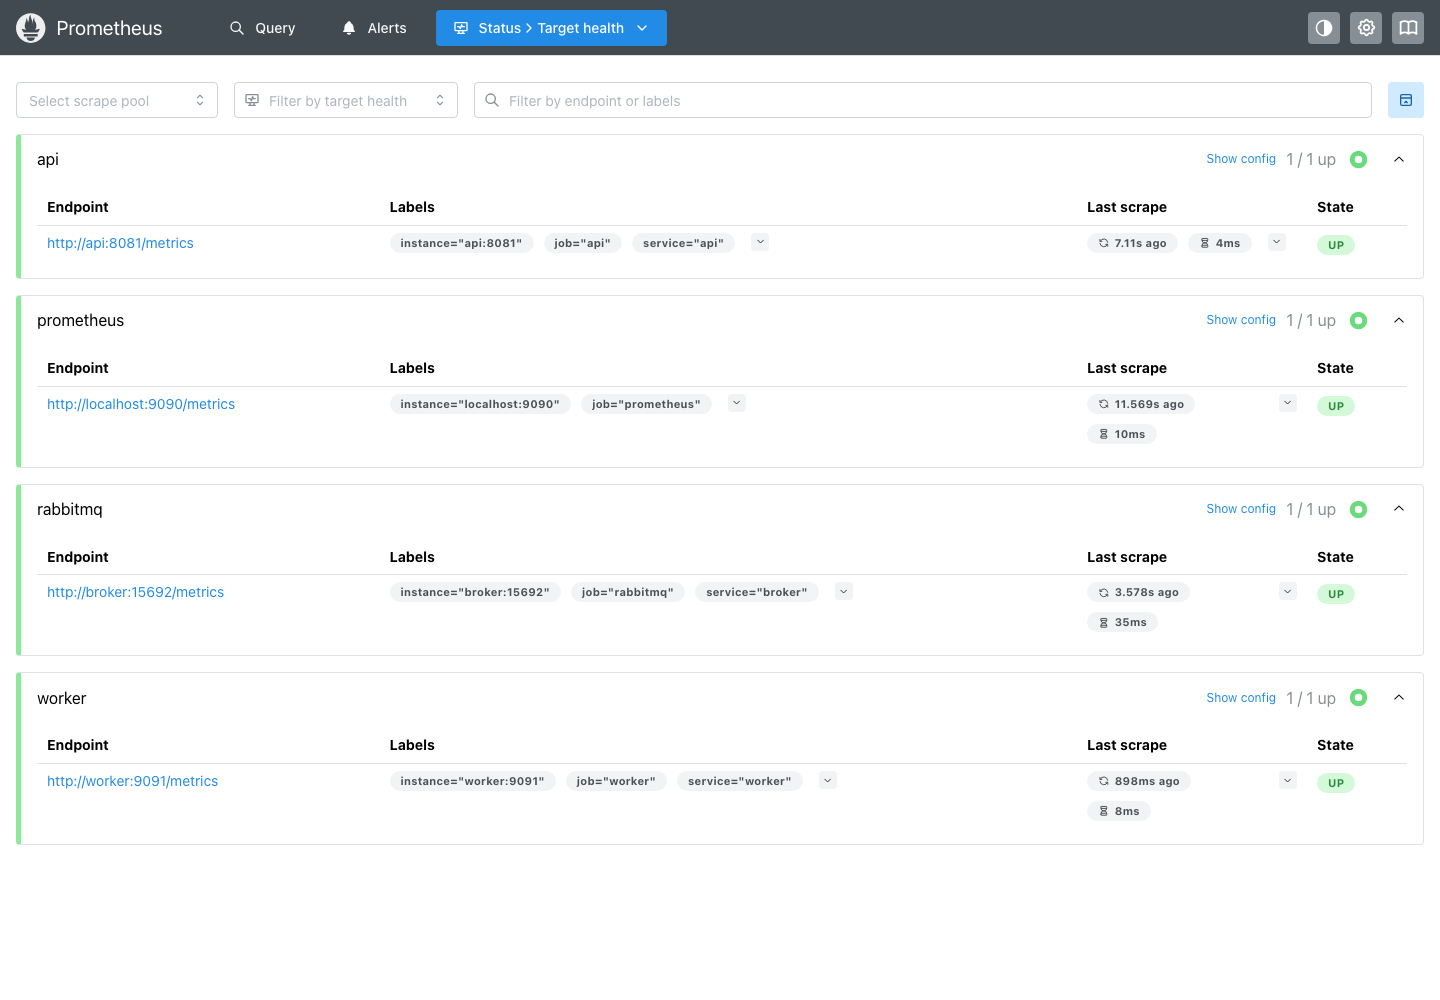
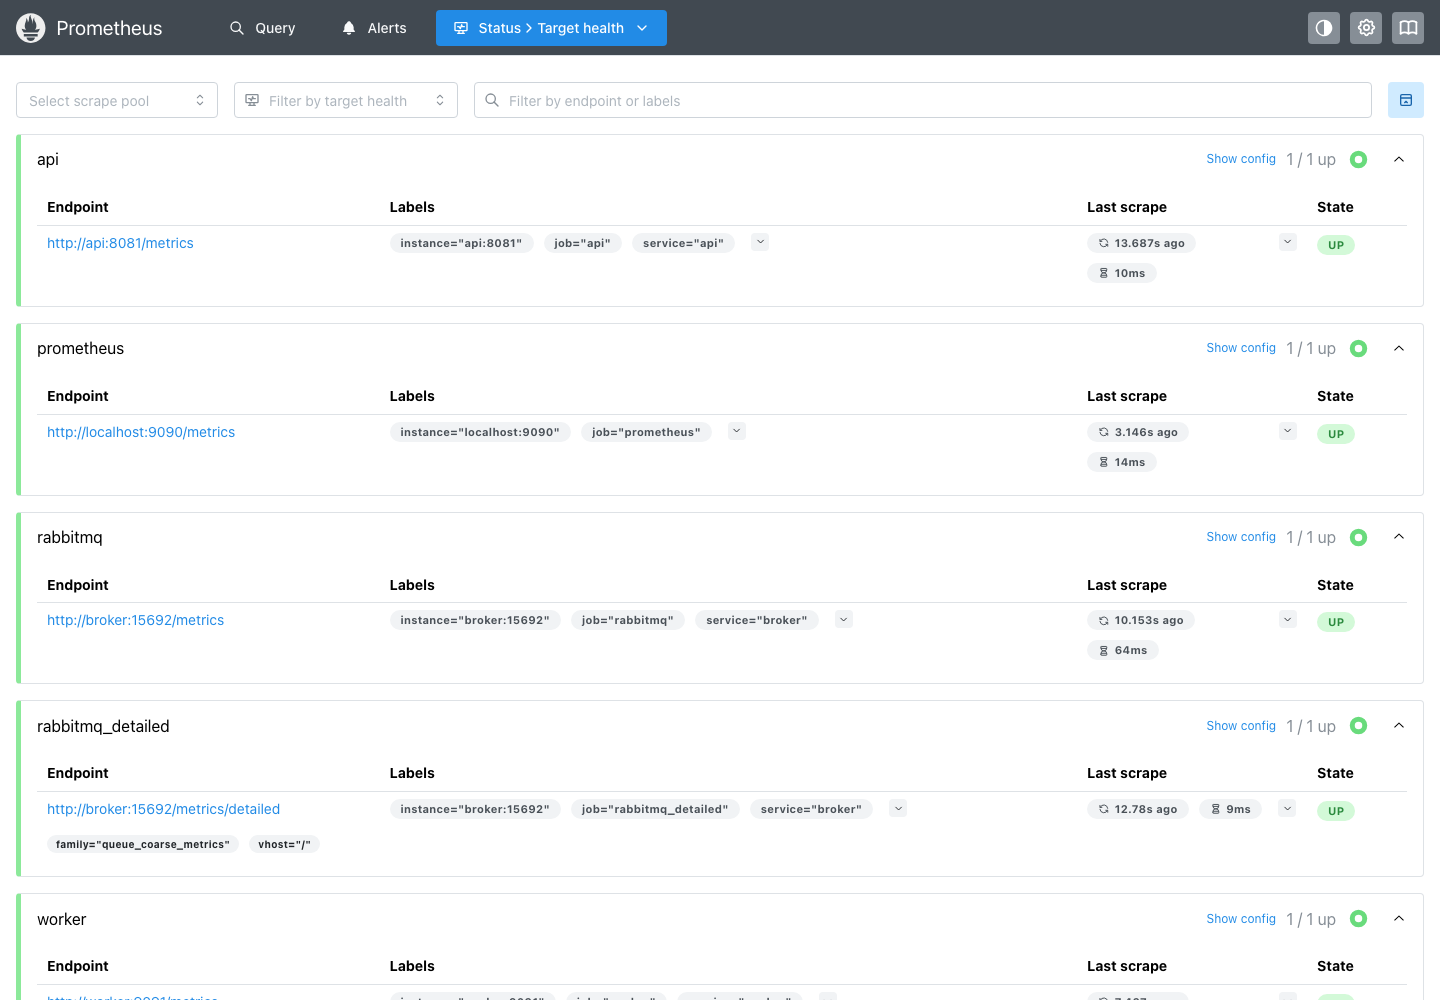
docs(report): show the security dashboard with every panel populated

diff --git a/docs/informe/informe-tecnico.md b/docs/informe/informe-tecnico.md
@@ -466,9 +466,9 @@ Se activa con `make up-obs` y las credenciales de Grafana viven en `.env` (`GRAF
 
 El dashboard aprovisionado (`deploy/observability/grafana/dashboards/seguridad.json`) tiene cinco paneles: intentos de inicio de sesión por resultado, reusos de refresh token detectados, profundidad de la DLQ de RabbitMQ, latencia p95 por ruta y eventos publicados frente a consumidos. Los paneles se alinean con amenazas del modelo: fuerza bruta (AM-001), reuso de refresh token (AM-002) y cola saturada (AM-019).
 
-![Dashboard de Grafana «Identity Hub — Seguridad» tras la ejecución de la suite E2E: latencia p95 por ruta y eventos consumidos con datos; los paneles de intentos de inicio de sesión y de la DLQ muestran «No data».](img/grafana-dashboard-seguridad.png)
+![Dashboard de Grafana «Identity Hub — Seguridad» tras la ejecución de la suite E2E: intentos de inicio de sesión por resultado, reusos de refresh token detectados, profundidad de la DLQ, latencia p95 por ruta y eventos publicados frente a consumidos, todos con datos.](img/grafana-dashboard-seguridad.png)
 
-**Hallazgo de la captura, sin corregir.** Dos de los cinco paneles aparecen sin datos y es un defecto real, no un descuido de la toma. Los contadores `identity_login_attempts_total` e `identity_events_published_total` están definidos en `backend/internal/observability/metrics.go`, pero ningún código los incrementa, de modo que Prometheus nunca los expone; y el panel de la DLQ consulta `rabbitmq_queue_messages{queue="notifications.dlq"}`, mientras que el plugin de métricas de RabbitMQ agrega por defecto sin la etiqueta `queue`. Los otros paneles sí muestran datos reales. Corregirlo exige cambiar código de la aplicación y el JSON del dashboard, fuera del alcance de este informe; queda anotado en el trabajo futuro, sin identificador `VULN`, porque es un defecto de observabilidad y no de seguridad. (El panel de reusos de refresh token muestra 0 aunque la suite sí provocó reusos: los contadores viven en memoria y `make e2e` recrea el contenedor de la API al terminar para restaurar el límite por IP, de modo que el contador se reinició; las series históricas de Prometheus sí conservan la actividad previa, como se ve en la latencia.)
+Los cinco paneles muestran datos reales. Durante la redacción del informe la captura reveló que tres contadores (`identity_login_attempts_total`, `identity_events_published_total` e `identity_refresh_reuse_detected_total`) estaban definidos pero ningún código los incrementaba, y que el panel de la DLQ consultaba una serie sin la etiqueta `queue`. Se corrigió en la misma semana: el broker cuenta cada publicación (confirmada o fallida), el servicio de refresh cuenta cada reuso solo cuando la revocación se confirma en la base, los handlers de inicio de sesión y verificación MFA cuentan `mfa_required`, `failed`, `locked` y `succeeded`, y Prometheus raspa además el endpoint detallado de RabbitMQ (`/metrics/detailed`, familia `queue_coarse_metrics`), del que el panel lee `rabbitmq_detailed_queue_messages`. Cada contador tiene su prueba (`TestRNF007_*`). El panel de reusos muestra una serie por instancia: la de la API acumula los reusos que provoca la suite y la del worker queda en 0, porque el worker no atiende refresh.
 
 ## Explore: logs en Loki
 
@@ -490,7 +490,7 @@ La página de objetivos de Prometheus confirma que la API, el worker, RabbitMQ y
 
 ## Alcance de la observabilidad
 
-Falco, que el enunciado menciona para la detección de comportamiento anómalo en tiempo de ejecución, quedó **fuera del alcance** salvo que sobrara tiempo: es el único faltante del bonus de observabilidad. Tampoco hay una regla de alerta versionada para la DLQ (AM-019); el panel existe, pero no la alerta ni el runbook, y, como se vio arriba, dos paneles del dashboard no reciben datos todavía.
+Falco, que el enunciado menciona para la detección de comportamiento anómalo en tiempo de ejecución, quedó **fuera del alcance** salvo que sobrara tiempo: es el único faltante del bonus de observabilidad. Tampoco hay una regla de alerta versionada para la DLQ (AM-019); el panel existe y recibe datos, pero no la alerta ni el runbook.
 
 # Conclusiones
 
@@ -530,7 +530,7 @@ Falco, que el enunciado menciona para la detección de comportamiento anómalo e
 1. **Publicar en Docker Hub (T17):** workflow de release en el tag `vX.Y.Z` con etiquetas `vX.Y.Z` y `latest`, SBOM con Syft y firma con Cosign (ADR 0011); con ello se cierran AM-008, AM-009 y AM-022. Propuesta: repositorios `api`, `worker` y `web`, environment protegido `dockerhub`, tag de prueba `v0.9.0` y `v1.0.0` en el cierre.
 2. **Cierre de la entrega (T20 y T21):** guion del video de 10 a 15 minutos, bitácora, matriz de trazabilidad, informe de seguridad final, tag de versión y PR.
 3. Corregir la codificación de los correos del worker y afinar la regla de Gitleaks que cruza saltos de línea.
-4. **Alerta y runbook de la DLQ** en Grafana (AM-019), instrumentar `identity_login_attempts_total` e `identity_events_published_total` y corregir la consulta del panel de la DLQ, y, si hay tiempo, **Falco** para detección en ejecución.
+4. **Alerta y runbook de la DLQ** en Grafana (AM-019) y, si hay tiempo, **Falco** para detección en ejecución.
 5. **Soporte SMTP autenticado con STARTTLS** en el worker y hosts configurables, para poder aplicar de verdad la arquitectura de AWS.
 6. Evolucionar la integración de terceros: clientes OAuth en base de datos, OpenID Connect, refresh tokens por cliente, introspección y revocación; y reemplazar la publicación directa por un **outbox transaccional**.
 7. Funciones diferidas en la matriz: claves de servicio (RF-018) y exportación del audit log (RF-019).
